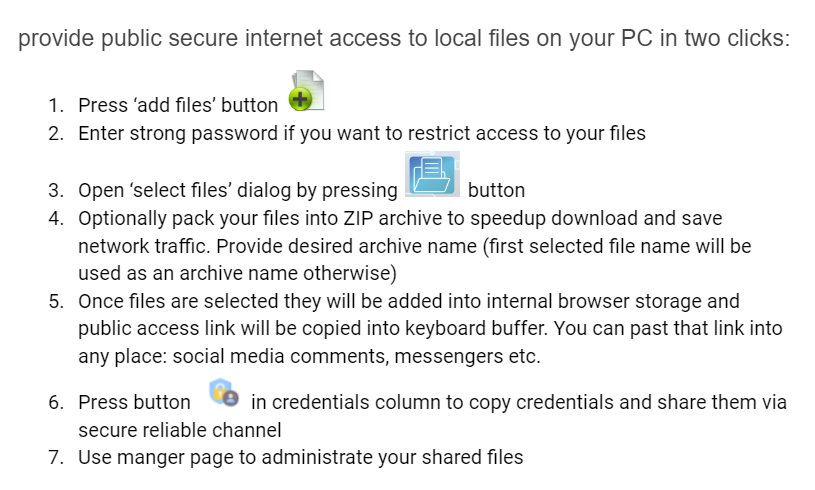
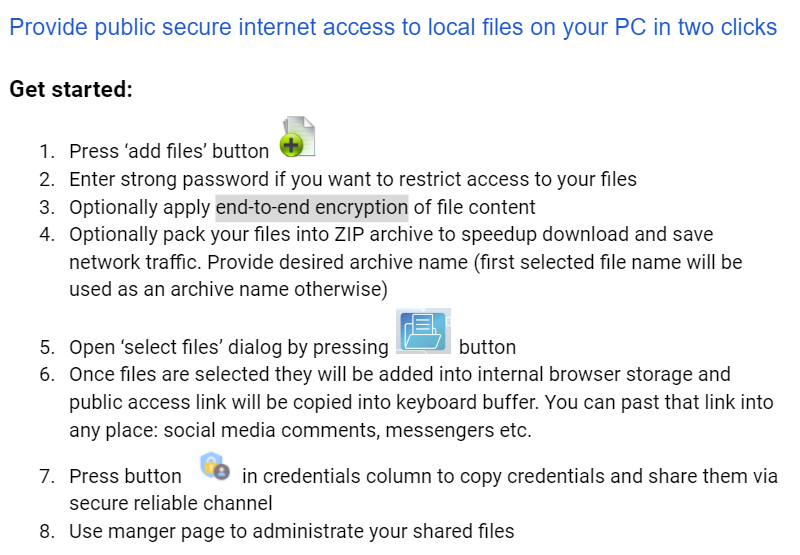
end-to-end encryption description was added into manual

diff --git a/ufshm.html b/ufshm.html
@@ -4,6 +4,33 @@
     <title>File manager</title>
     <meta charset="UTF-8">
     <style>
+        body {
+            background-image: url("images/main-background.png");
+            background-size: 190px 98px;
+            background-repeat: repeat;
+            background-position: top left;
+            margin: 0;
+            /*background-size: cover;
+            background-position: center center;
+            background-repeat: repeat;
+            background-color: azure;*/
+        }
+
+        .blue-half-transparent-div {
+            background: rgba(135, 206, 235, 0.85);
+            /*margin-left: 250px;
+            margin-right: 250px;*/
+            padding: 20px;
+            /*border-radius: 10px;*/
+        }
+        .green-half-transparent-div {
+            /*background: rgba(135, 255, 200, 0.9);*/
+            background: rgba(200, 230, 210, 0.85);
+            /*margin-left: 250px;
+            margin-right: 250px;*/
+            padding: 1px;
+            /*border-radius: 10px;*/
+        }
         .fm-grid-button {
             display: flex;
             align-items: center;
@@ -202,14 +229,16 @@
     <link rel="manifest" href="html/file-sharing-manifest.json">
 </head>
 <body>
+<div class="blue-half-transparent-div">
 <h1 style="color: darkblue; text-align: center;">Secure FileShare</h1>
 <h2 id="statusCaption" style="color: crimson; text-align: center;">(Transfer channel is broken)</h2>
-<div id="expandableDiv">
+</div>
+<div id="expandableDiv" style="width: 520px">
     <a href="https://secure.fileshare.ovh:31443/manual/secure-file-share-doc.html" class="doc-link" target="_blank"
        rel="noopener noreferrer" style="width: 100px">
         📄 How to ...
     </a>
-    <img src="images/how-to.png" width="600px" style="border: none;" alt="manual">
+    <img src="images/how-to-medium-small.png" style="border: none;" alt="manual">
     <div style="width: 100%; text-align: center;display: flex">
         <a href="https://secure.fileshare.ovh:31443/manual/secure-file-share-doc.html" target="_blank"
            rel="noopener noreferrer" style="width: 150px; background-color: transparent;margin-right: 50px;margin-left: 120px">
@@ -221,7 +250,7 @@
         </a>
     </div>
 </div>
-<div style="display: flex">
+<div class="green-half-transparent-div" style="display: flex">
     <h2 id="totalSizeCaption" style="margin-left: 20px; margin-right: 50px"></h2>
     <button id="addBinaryButton" class="image-button">
         <img src="images/document-add-icon-16.png" alt="Button Image">

diff --git a/manual/secure-file-share-doc.html b/manual/secure-file-share-doc.html
@@ -1204,9 +1204,9 @@
                     title=""></span></li>
             <li class="c2 li-bullet-0"><span
                     class="c5">Enter strong password if you want to restrict access to your files</span></li>
-            <li class="c2 li-bullet-0"><span class="c5">Optionally apply end-to-end encryption to file content</span>
+            <li class="c2 li-bullet-0"><span class="c5">Optionally apply end-to-end encryption of file content</span>
             </li>
-            <li class="c2 li-bullet-0"><span class="c5">Optionally pack your files into ZIP archive to speedup download and save network traffic. Provide desired archive name (first selected file name will be used as an archive name otherwise)</span>
+            <li class="c2 li-bullet-0"><span class="c5">Optionally pack your files into ZIP archive to speedup download and save network traffic. Provide desired archive name (first selected file name or folder name will be used as an archive name otherwise)</span>
             </li>
             <li class="c2 li-bullet-0"><span class="c7">Open &lsquo;select files&rsquo; dialog by pressing </span><span
                     style="overflow: hidden; display: inline-block; margin: 0.00px 0.00px; border: 0.00px solid #000000; transform: rotate(0.00rad) translateZ(0px); -webkit-transform: rotate(0.00rad) translateZ(0px); width: 44.43px; height: 36.79px;"><img
